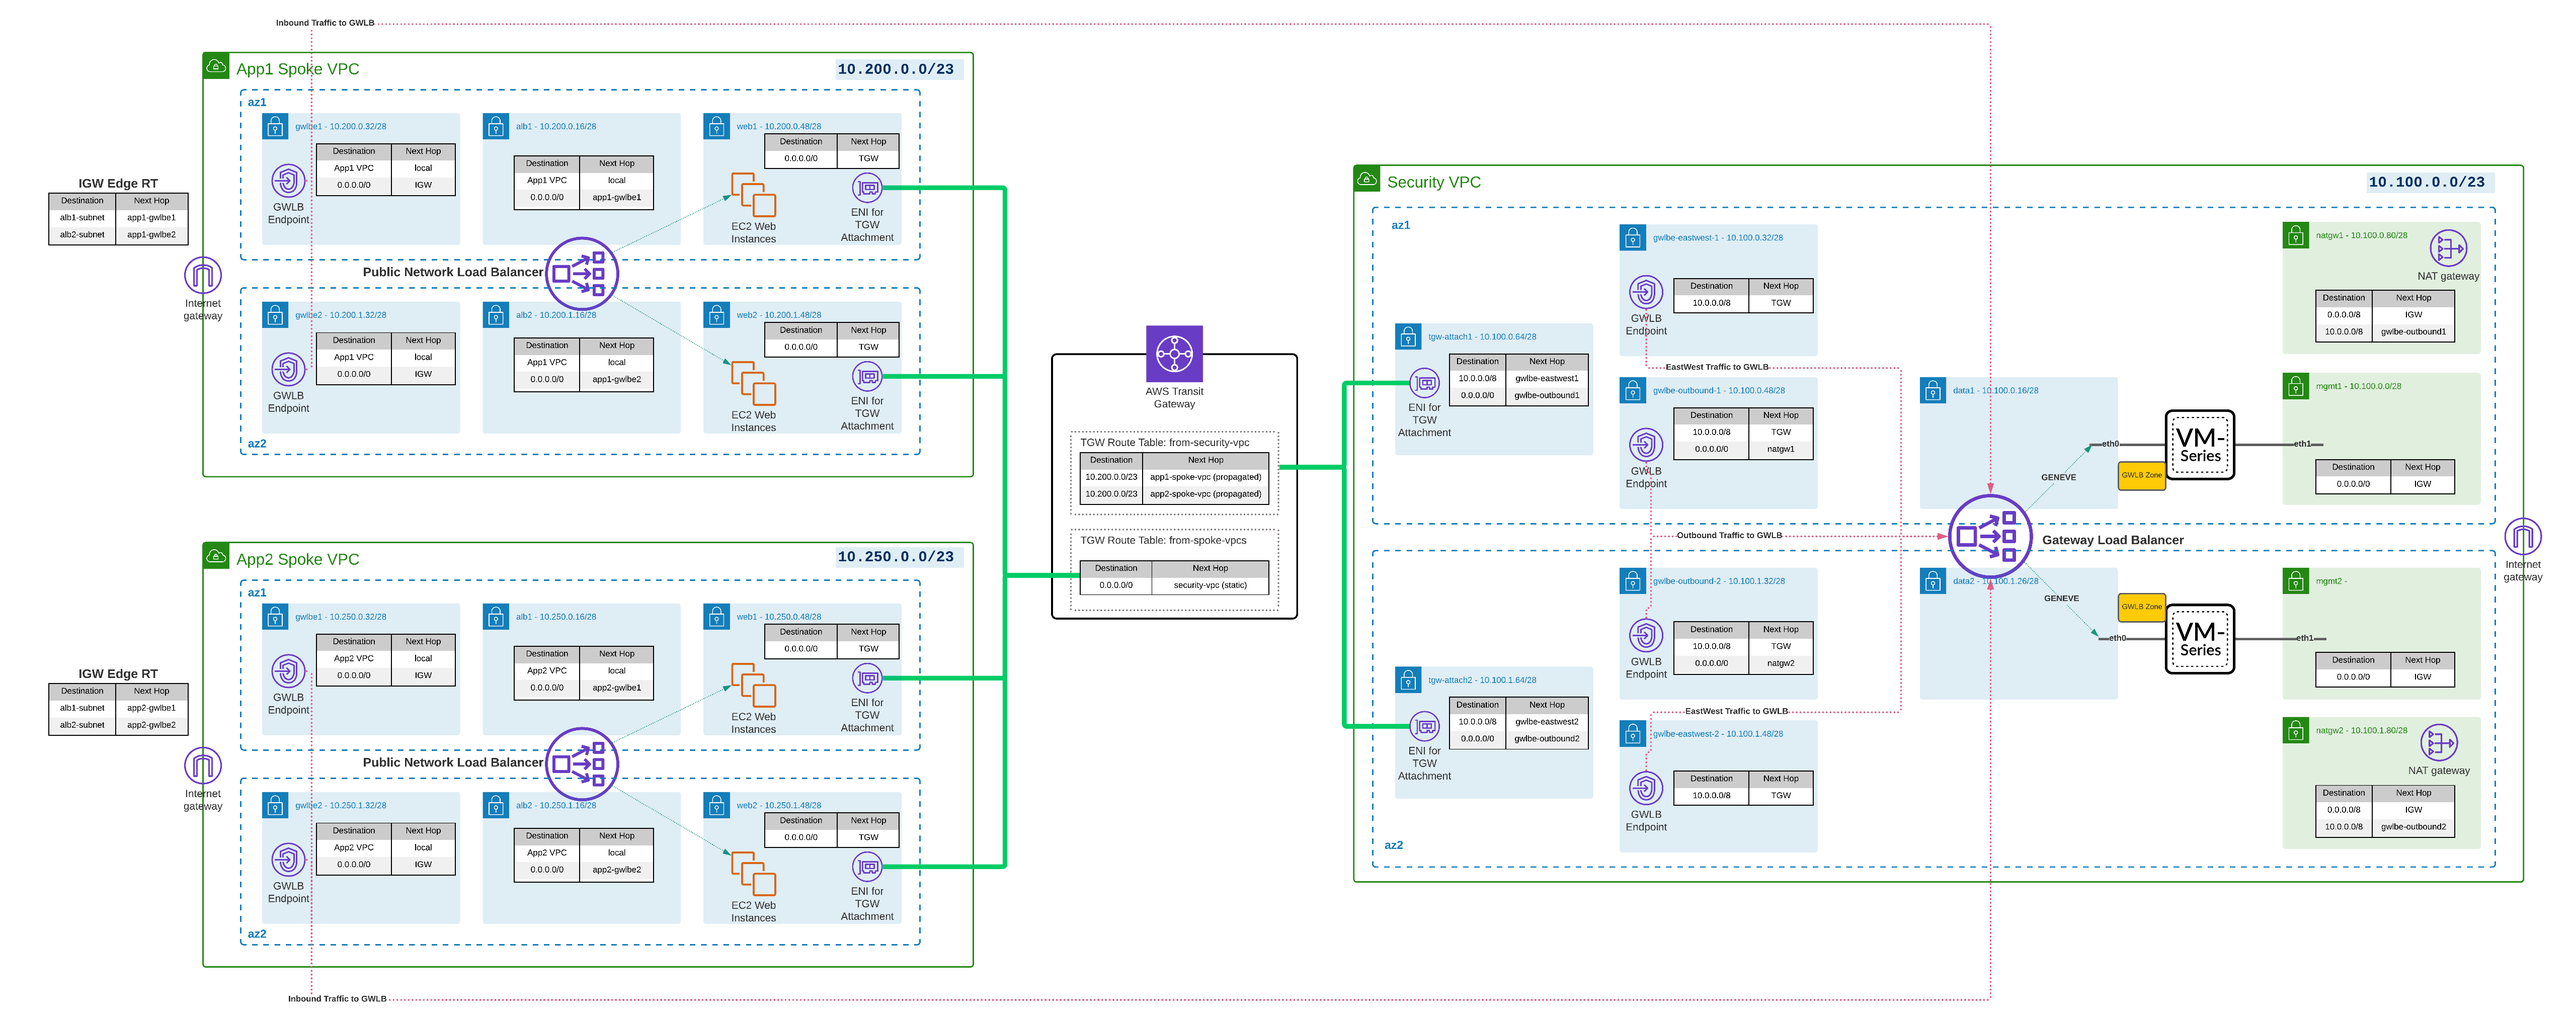
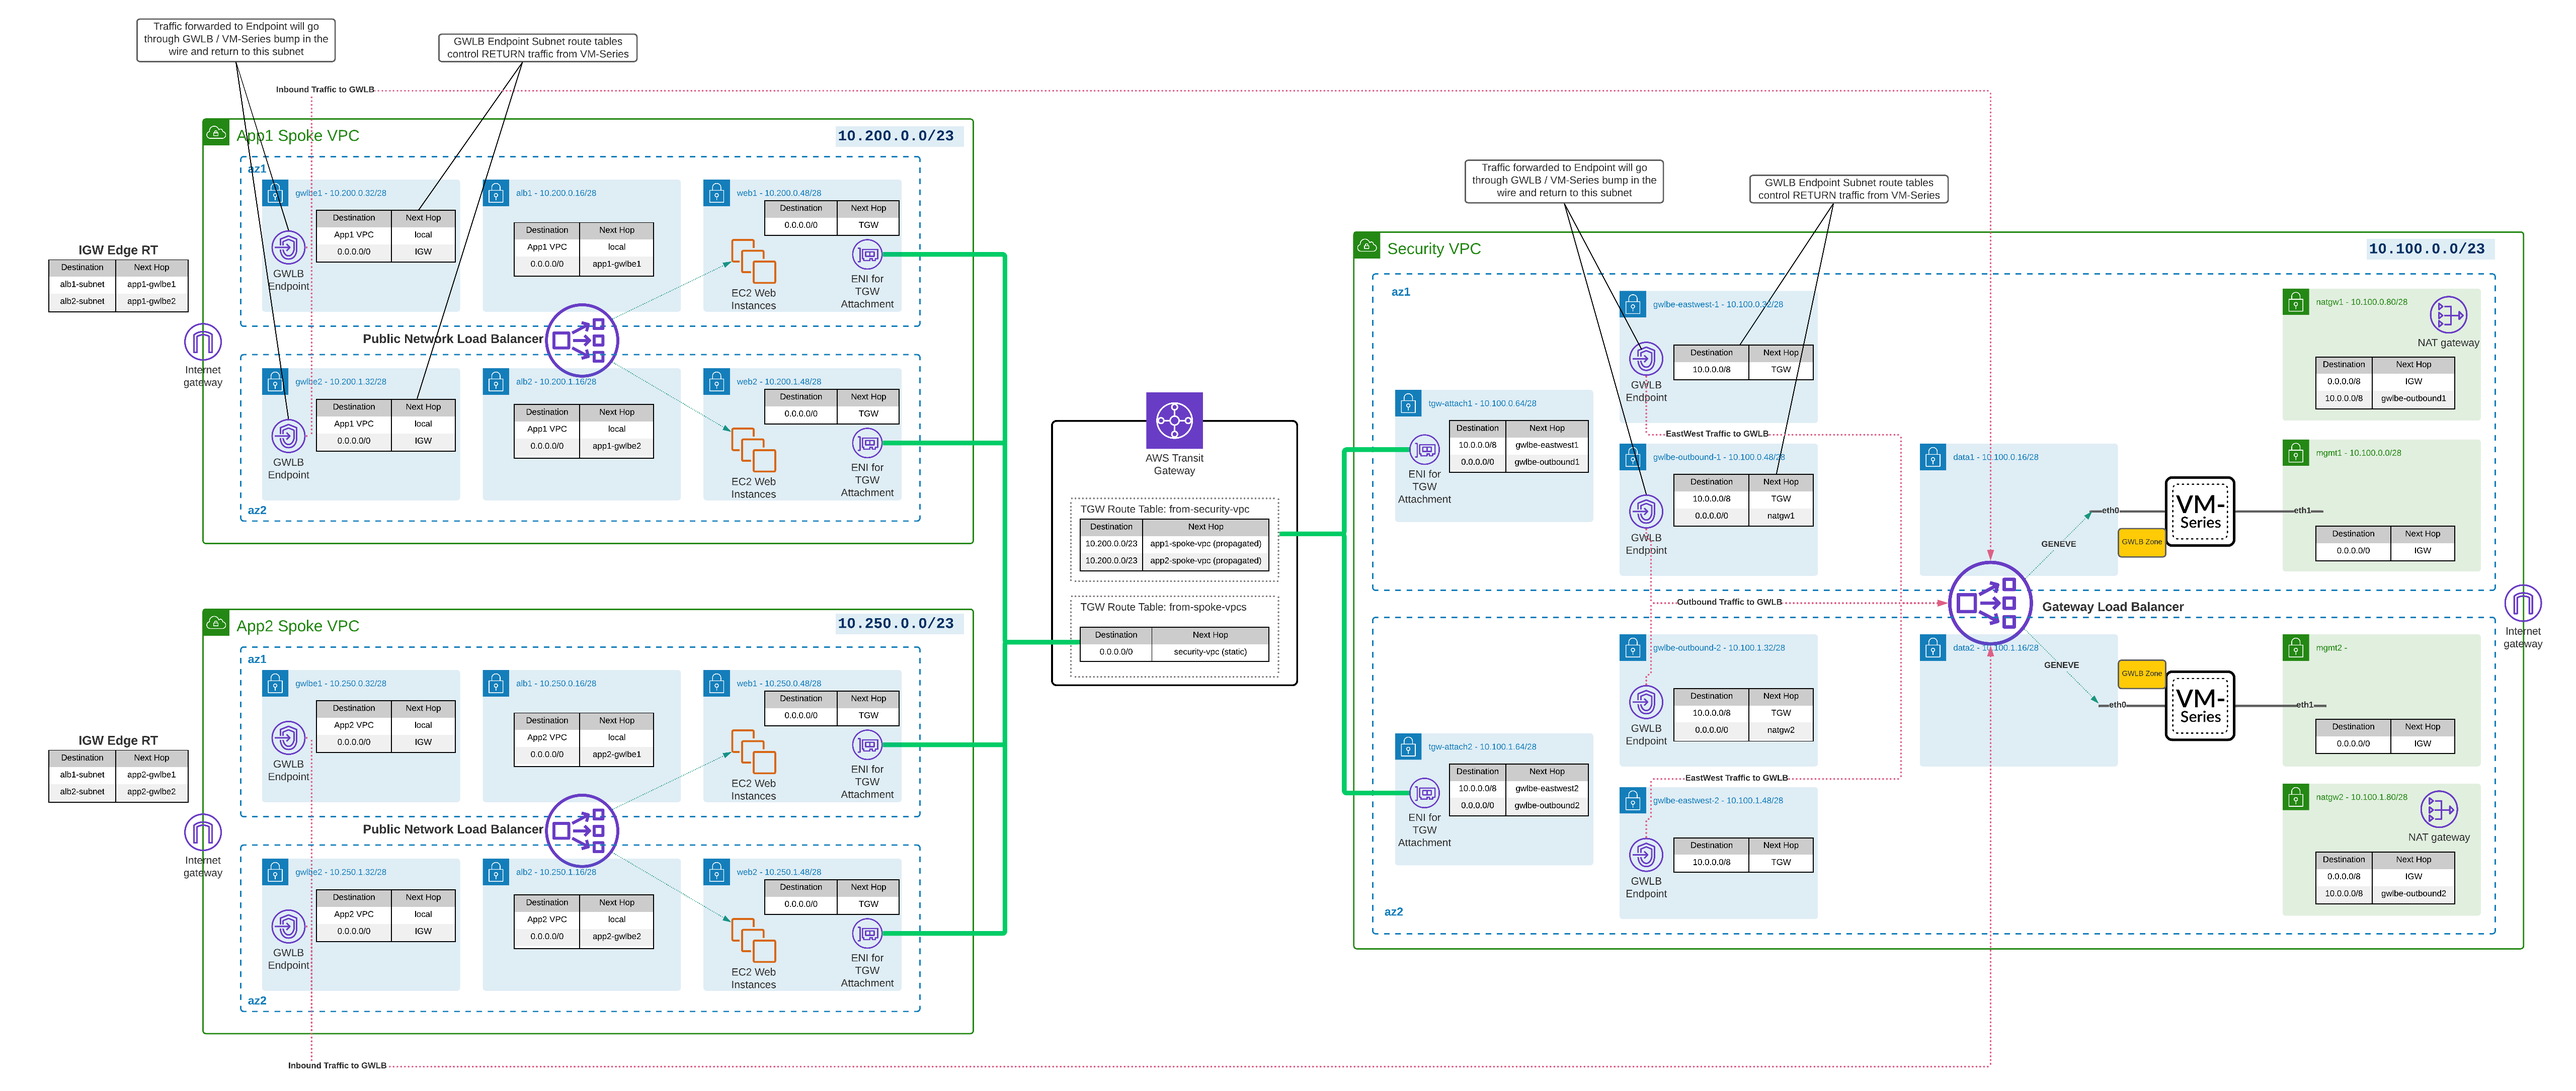
add flow diagrams

Changed region(s): [[0.0, 0.1238, 1.0, 0.9592], [0.0, 0.0, 0.4062, 0.4951], [0.1562, 0.0309, 0.25, 0.0619]]

diff --git a/README.md b/README.md
@@ -37,6 +37,9 @@ Example Code block following an action item
   - [1.2. Lab Guide Syntax conventions](#12-lab-guide-syntax-conventions)
   - [1.3. Table of Contents](#13-table-of-contents)
 - [2. Lab Topology](#2-lab-topology)
+  - [2.1. Flow Diagrams](#21-flow-diagrams)
+    - [2.1.1. Outbound Traffic Flows](#211-outbound-traffic-flows)
+    - [2.1.2. Inbound Traffic Flows](#212-inbound-traffic-flows)
 - [3. Lab Steps](#3-lab-steps)
   - [3.1. Initialize Lab](#31-initialize-lab)
     - [3.1.1. Find SSH Key Pair Name](#311-find-ssh-key-pair-name)
@@ -75,18 +78,25 @@ Example Code block following an action item
   - [3.18. GWLBE / Sub-Interface associations](#318-gwlbe--sub-interface-associations)
     - [3.18.1. Configure Zones in Panorama](#3181-configure-zones-in-panorama)
     - [3.18.2. Configure Sub-Interfaces in Panorama](#3182-configure-sub-interfaces-in-panorama)
-  - [- IPv4 -> Type -> `DHCP Client`](#--ipv4---type---dhcp-client)
-  - [- IPv4 -> Type -> `DHCP Client`](#--ipv4---type---dhcp-client-1)
-    - [3.18.3. Create associations from GWLB Endpoints](#3183-create-associations-from-gwlb-endpoints)
-    - [3.18.4. Create Zone-Based policies for sub-interfaces](#3184-create-zone-based-policies-for-sub-interfaces)
-  - [3.19. Review Lab Quiz Questions](#319-review-lab-quiz-questions)
-  - [3.20. Finished](#320-finished)
+  - [3.19. - IPv4 -> Type -> `DHCP Client`](#319---ipv4---type---dhcp-client)
+  - [3.20. - IPv4 -> Type -> `DHCP Client`](#320---ipv4---type---dhcp-client)
+    - [3.20.1. Create associations from GWLB Endpoints](#3201-create-associations-from-gwlb-endpoints)
+    - [3.20.2. Create Zone-Based policies for sub-interfaces](#3202-create-zone-based-policies-for-sub-interfaces)
+  - [3.21. Review Lab Quiz Questions](#321-review-lab-quiz-questions)
+  - [3.22. Finished](#322-finished)
 
 # 2. Lab Topology
 
 ![GWLB Topology](images/topology.png)
 
+## 2.1. Flow Diagrams
 
+Reference these diagrams for a visual of traffic flows through this topology.
+### 2.1.1. Outbound Traffic Flows
+<img src="https://user-images.githubusercontent.com/43679669/114664326-8d6ca800-9cc9-11eb-934e-2742fd6a1800.png" width=30% height=30%>
+
+### 2.1.2. Inbound Traffic Flows
+<img src="https://user-images.githubusercontent.com/43679669/114664190-572f2880-9cc9-11eb-8bd1-216d18dec2ac.png" width=30% height=30%>
 
 # 3. Lab Steps
 ## 3.1. Initialize Lab
@@ -1025,7 +1035,7 @@ We will now fix this using GWLB sub-interface associations.
   - Comment: `gwlbe-eastwest`
   - Virtual Router: `vr-default`
   - Security Zone: `gwlbe-eastwest`
-  - IPv4 -> Type -> `DHCP Client`
+  3.19. - IPv4 -> Type -> `DHCP Client`
 ---
 
 - Highlight ethernet1/1 -> Add Subinterface
@@ -1034,7 +1044,7 @@ We will now fix this using GWLB sub-interface associations.
   - Comment: `gwlbe-inbound-app1`
   - Virtual Router: `vr-default`
   - Security Zone: `gwlbe-inbound-app1`
-  - IPv4 -> Type -> `DHCP Client`
+  3.20. - IPv4 -> Type -> `DHCP Client`
 ---
 
 - Highlight ethernet1/1 -> Add Subinterface
@@ -1049,7 +1059,7 @@ We will now fix this using GWLB sub-interface associations.
 
 - Commit and Push from Panorama
 
-### 3.18.3. Create associations from GWLB Endpoints
+### 3.20.1. Create associations from GWLB Endpoints
 
 > &#8505; Now we have sub-interfaces and zones, we can associate specific endpoints to sub-interfaces.
 
@@ -1091,7 +1101,7 @@ request plugins vm_series aws gwlb associate interface ethernet1/1.13 vpc-endpoi
 > &#8505; As of 10.0.4, this GWLB association is not available to configure during bootstrap.
 
 
-### 3.18.4. Create Zone-Based policies for sub-interfaces
+### 3.20.2. Create Zone-Based policies for sub-interfaces
 
 > &#8505; Now that each endpoint is associated with a specific zone, we can have more logic with our security policies.
 
@@ -1153,10 +1163,10 @@ request plugins vm_series aws gwlb associate interface ethernet1/1.13 vpc-endpoi
 - Generate inbound, outbound, and east/west traffic
 - Verify traffic is matching sub-interface based zones as expected
 
-## 3.19. Review Lab Quiz Questions
+## 3.21. Review Lab Quiz Questions
 
 
-## 3.20. Finished
+## 3.22. Finished
 
 Congratulations!
 
